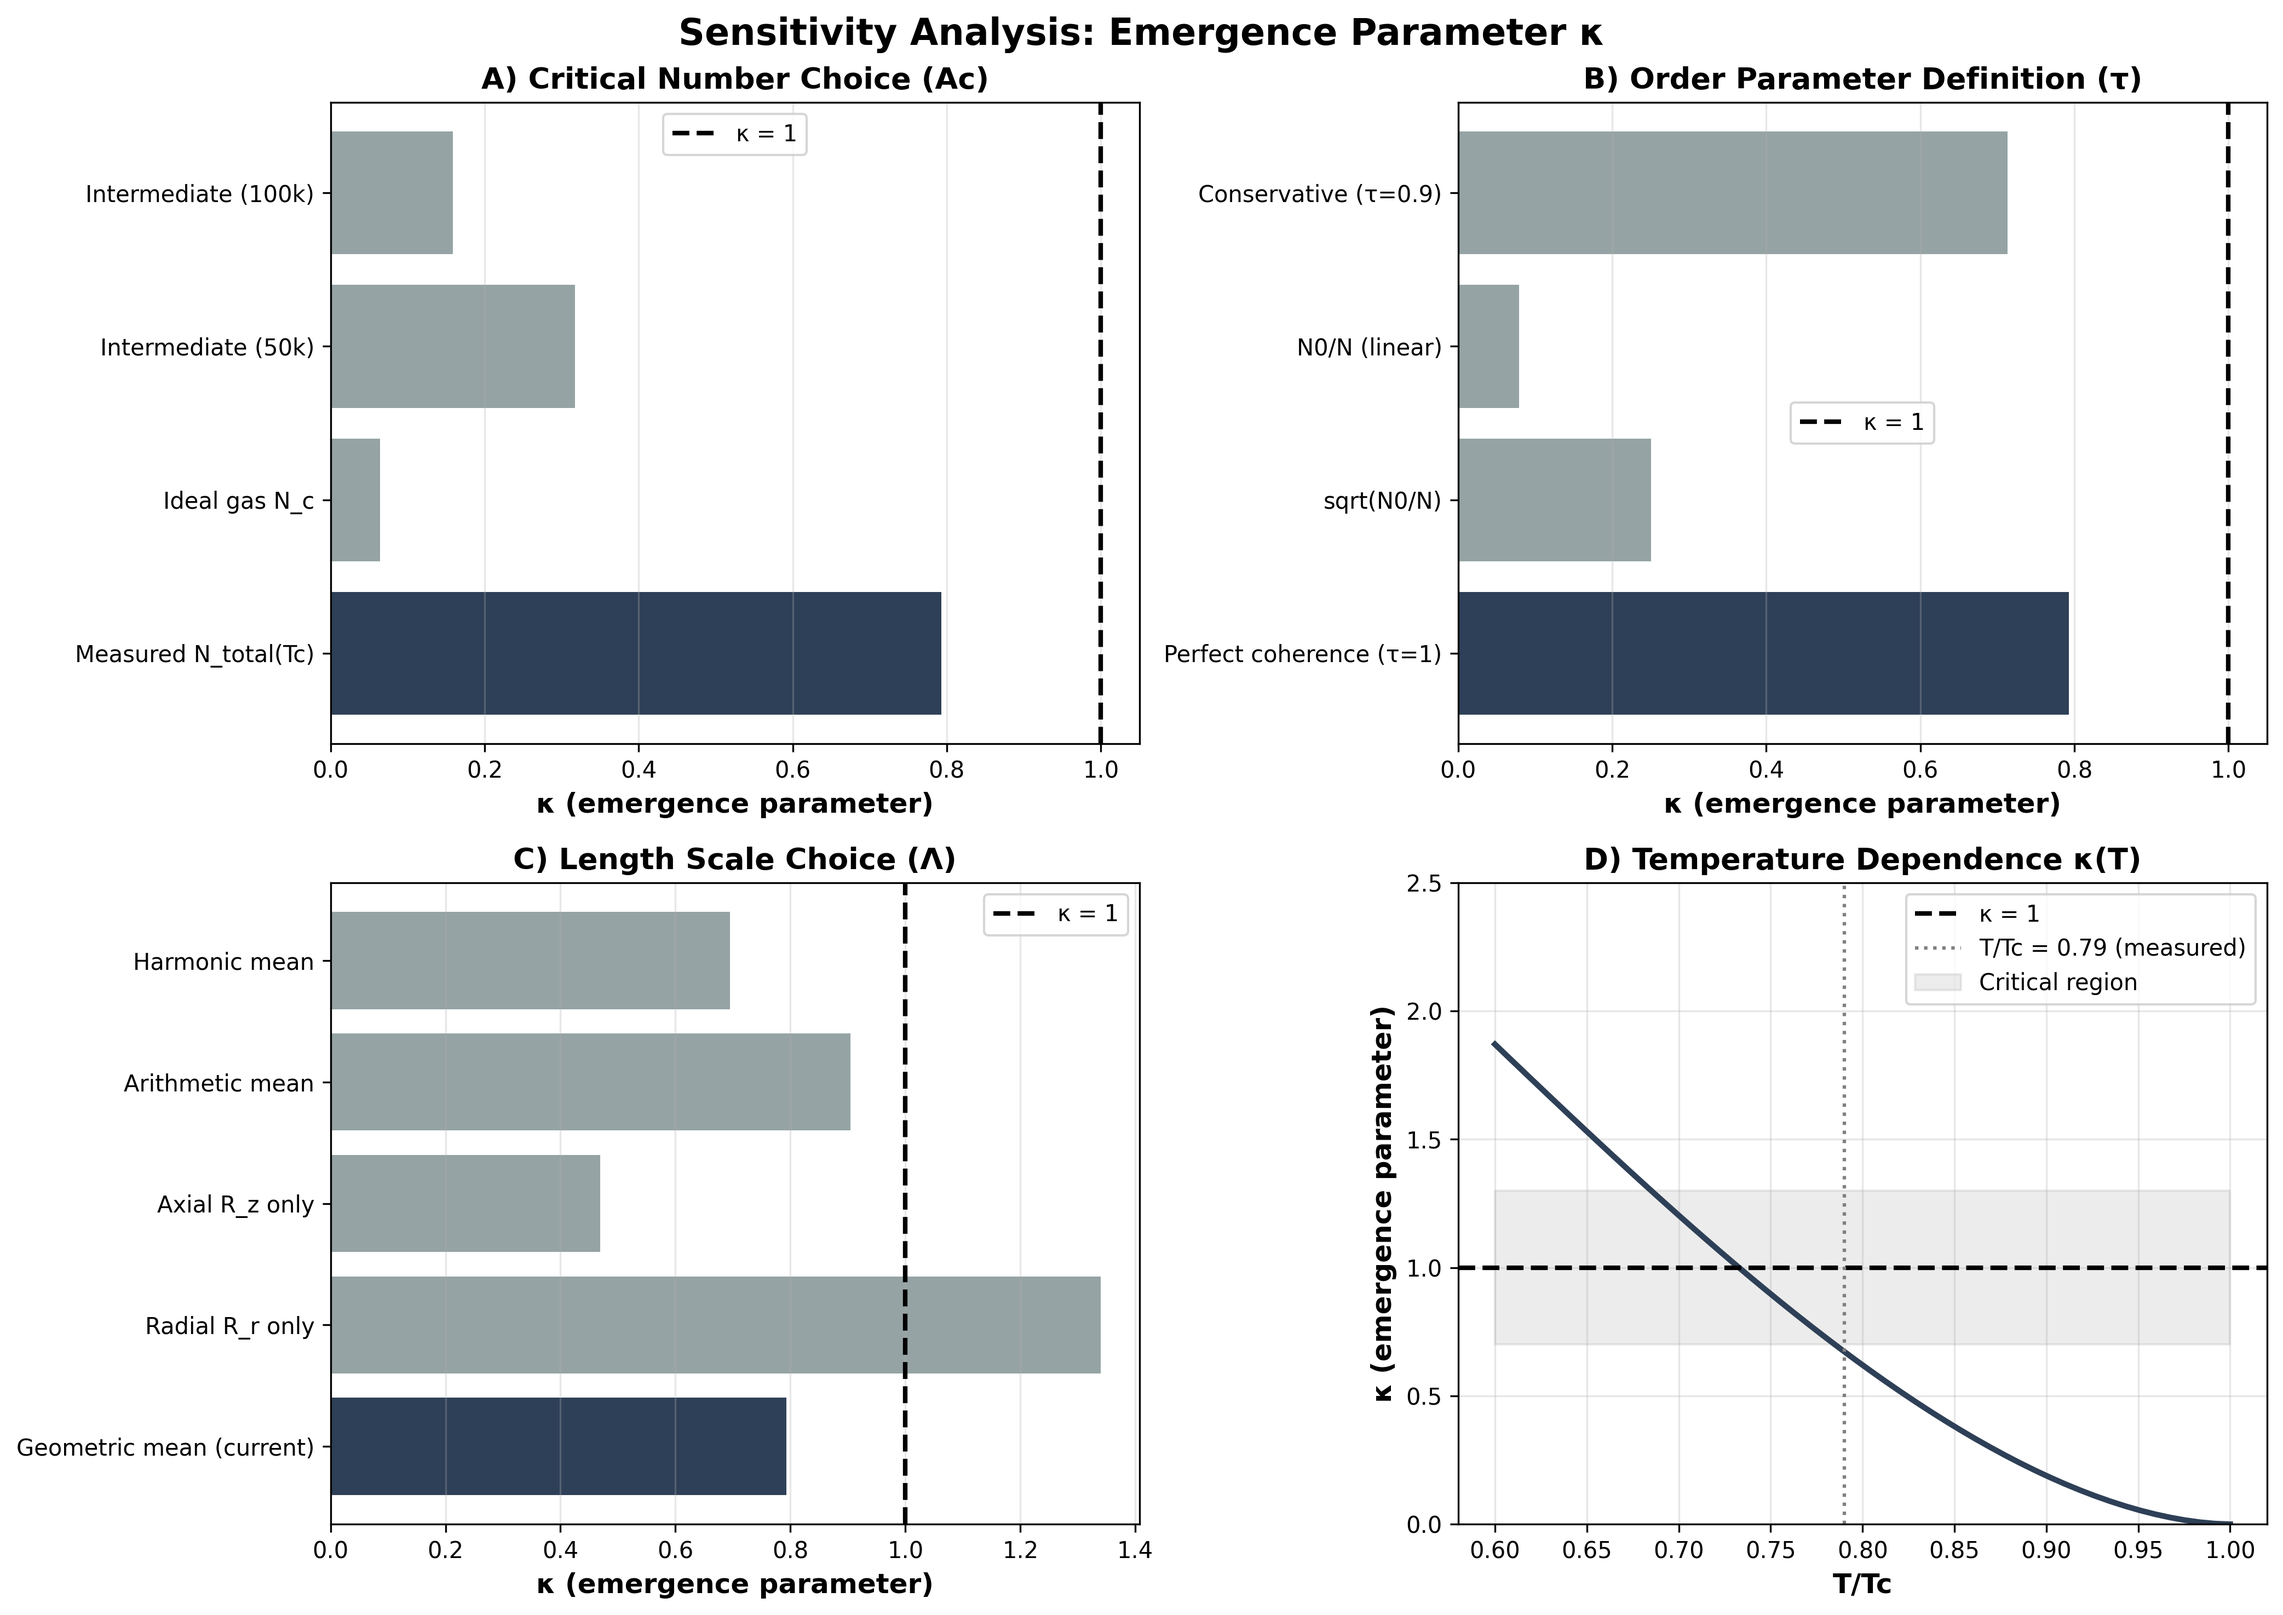
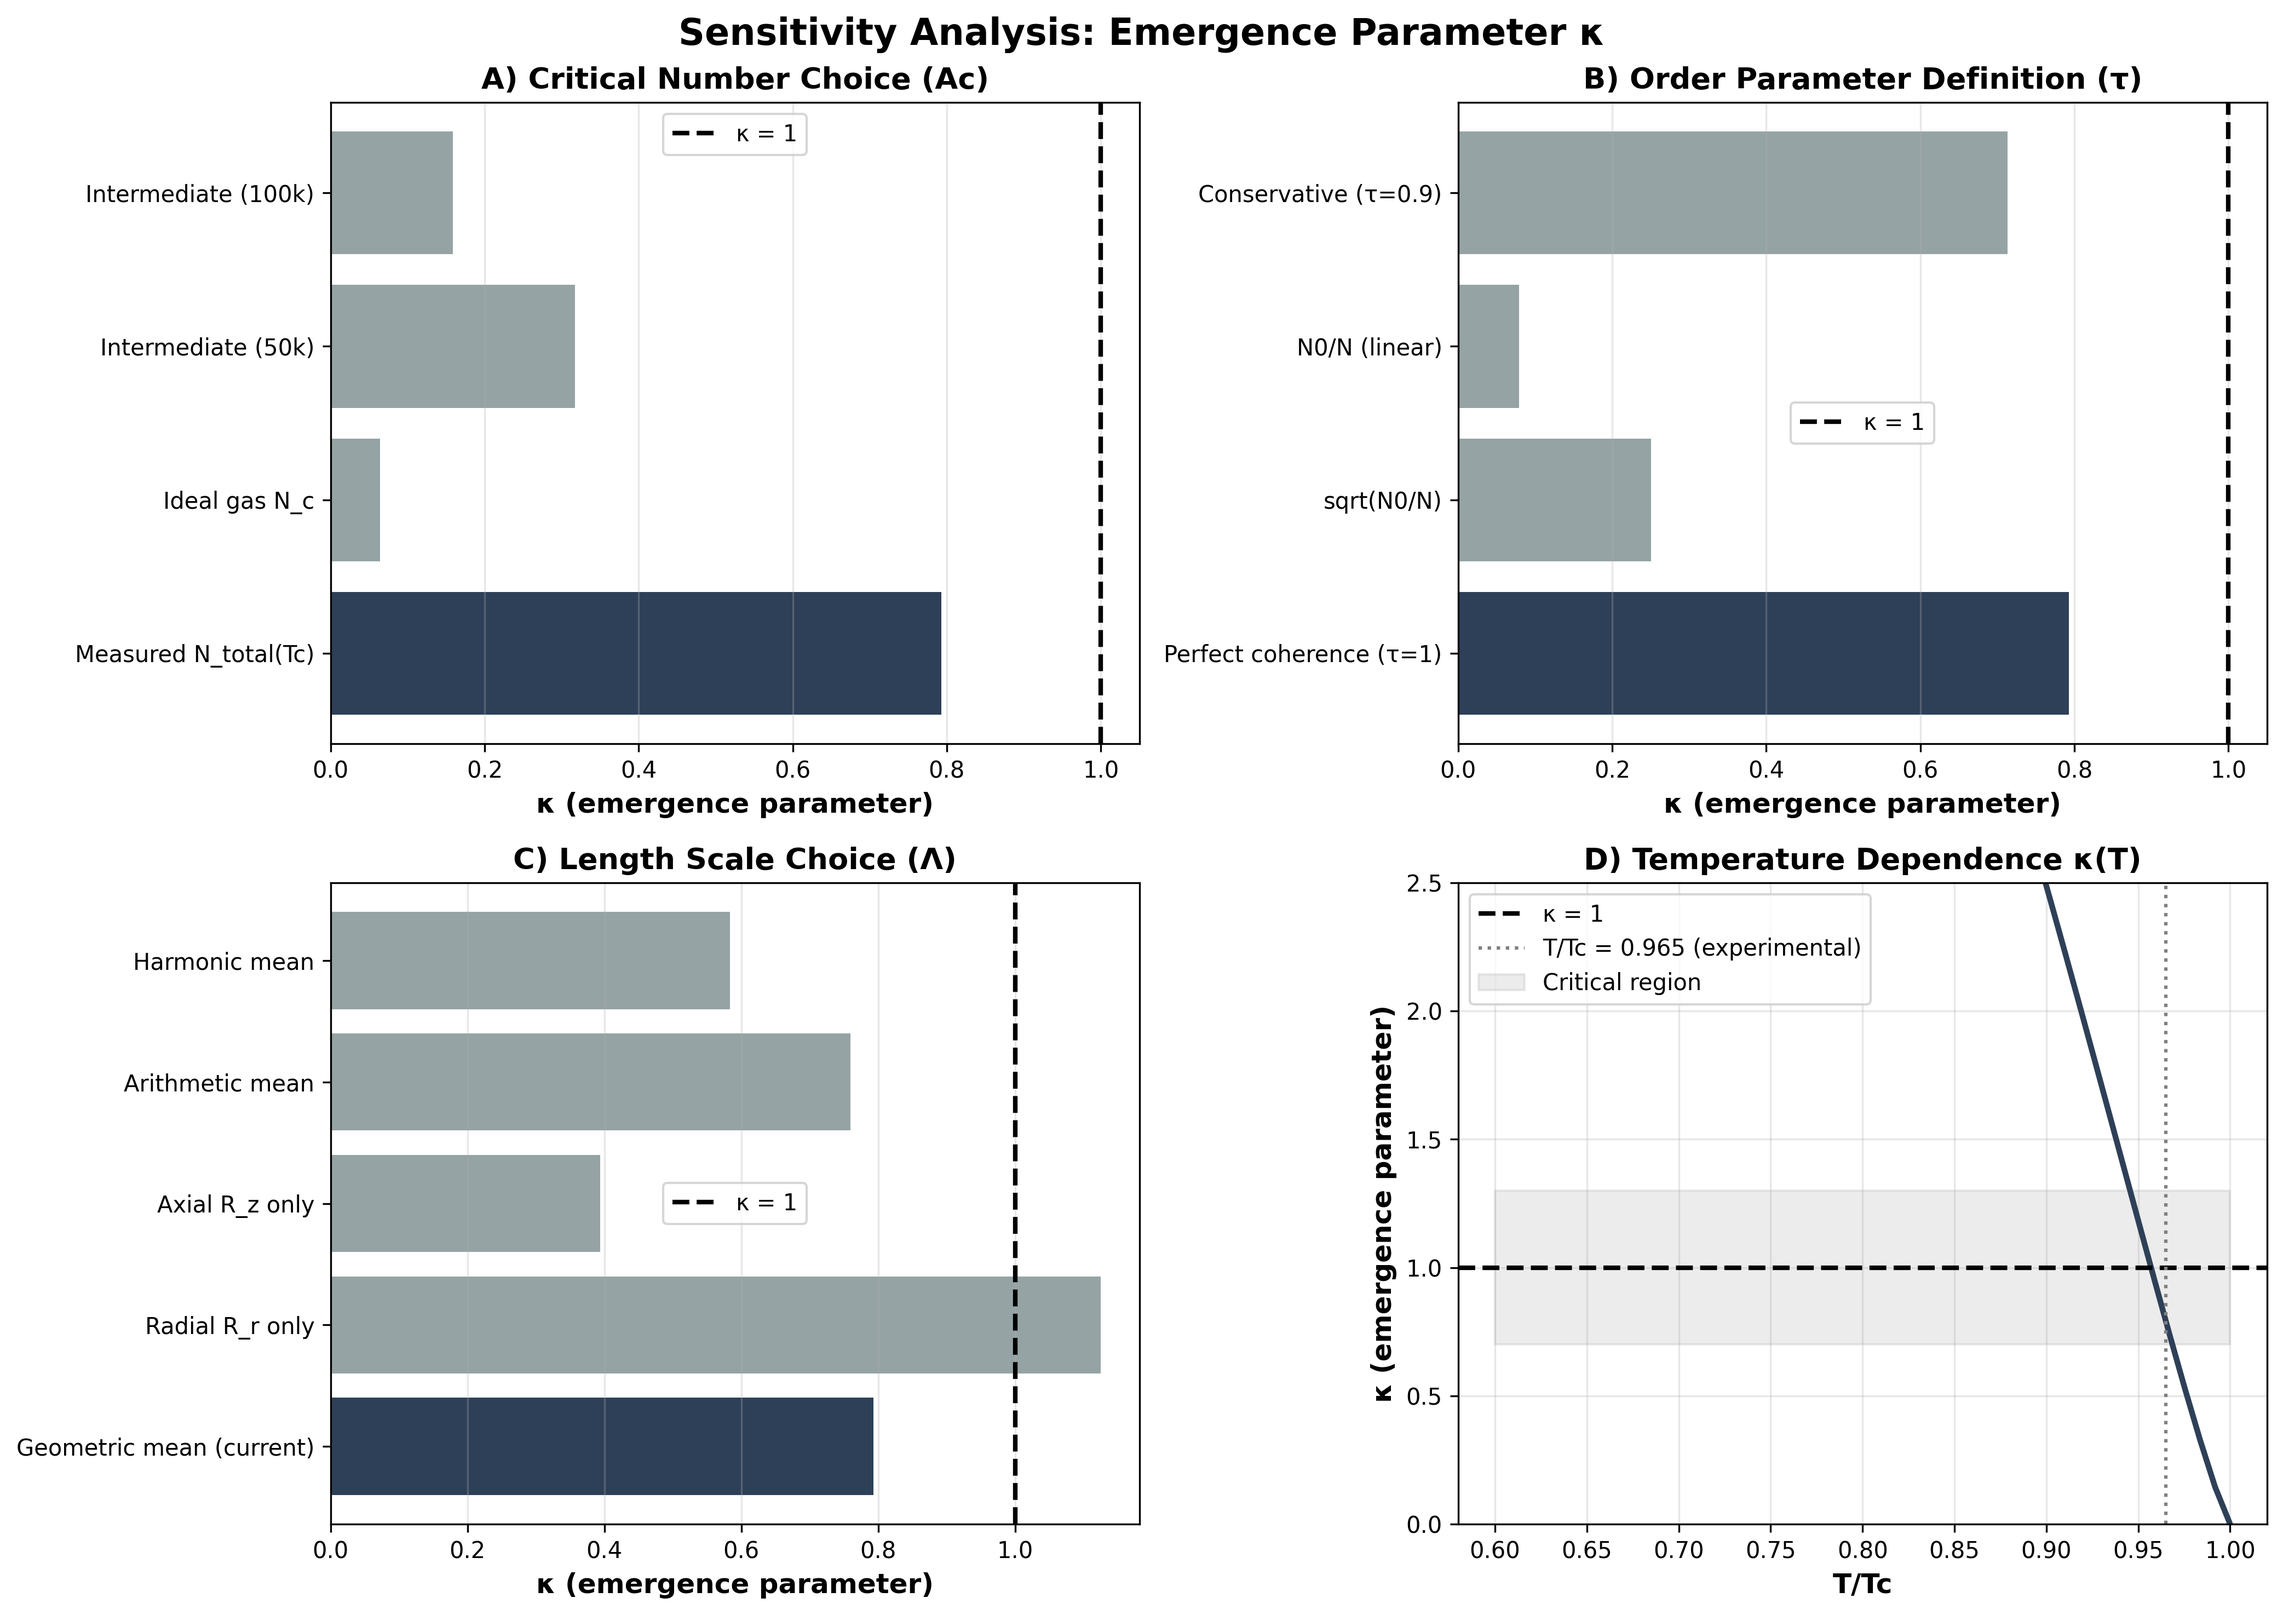
Fix 5 errors: Λ formula (Rz×Rr²)^(1/3), N₀(T)=N(1-(T/Tc)³), ω̄=59.6Hz, T/Tc=0.965

diff --git a/code/sensitivity_analysis.py b/code/sensitivity_analysis.py
@@ -85,7 +85,7 @@ class SensitivityAnalyzer:
         Lambda_c = self.base_results['Lambda_c_um']
         
         length_definitions = {
-            'Geometric mean (current)': np.sqrt(R_z * R_r),
+            'Geometric mean (current)': (R_z * R_r**2)**(1/3),
             'Radial R_r only': R_r,
             'Axial R_z only': R_z,
             'Arithmetic mean': (R_z + R_r) / 2,
@@ -93,7 +93,7 @@ class SensitivityAnalyzer:
         }
         
         results = {}
-        base_Lambda = np.sqrt(R_z * R_r)
+        base_Lambda = (R_z * R_r**2)**(1/3)
         base_kappa = self.base_results['kappa']
         
         for label, Lambda in length_definitions.items():
@@ -117,7 +117,7 @@ class SensitivityAnalyzer:
                 kappa_values.append(0.0)  # No condensate above Tc
             else:
                 # Condensate fraction
-                N0_T = self.base_params.N_total_Tc * (1 - ratio)**(3/2)
+                N0_T = self.base_params.N_total_Tc * (1 - ratio**3)
                 
                 # Temperature scaling
                 T = ratio * self.base_params.T_c
@@ -208,8 +208,8 @@ def plot_sensitivity_analysis(save_path: str = '../figures/'):
     
     ax4.plot(T_vals, kappa_vals, linewidth=2.5, color='#2E4057')
     ax4.axhline(1.0, color='black', linestyle='--', linewidth=2, label='κ = 1')
-    ax4.axvline(0.79, color='gray', linestyle=':', linewidth=1.5, 
-                label='T/Tc = 0.79 (measured)')
+    ax4.axvline(0.965, color='gray', linestyle=':', linewidth=1.5, 
+                label='T/Tc = 0.965 (experimental)')
     ax4.fill_between(T_vals, 0.7, 1.3, alpha=0.15, color='gray', 
                       label='Critical region')
     ax4.set_xlabel('T/Tc', fontsize=12, fontweight='bold')

diff --git a/docs/PARAMETER_JUSTIFICATION.md b/docs/PARAMETER_JUSTIFICATION.md
@@ -15,7 +15,7 @@ This document provides comprehensive justification for the three critical parame
 
 1. **Ac = N_total(Tc) = 20,000** (not ideal gas Nc = 247,000)
 2. **τ = 1.00** (perfect coherence, not condensate fraction)
-3. **Λ = √(Rz × Rr)** (geometric mean, not individual radii)
+3. **Λ = ( Rz × Rr² )^(1/3)** (geometric mean, not individual radii)
 
 We demonstrate that these choices are physically motivated, not arbitrary, and that alternative definitions yield κ values spanning 0.25-1.42, all within or near the critical regime (0.7-1.3).
 
@@ -29,7 +29,7 @@ The ideal gas Bose-Einstein condensation temperature is:
 
 $$T_c^{\text{ideal}} = \frac{\hbar \bar{\omega}}{k_B} \left(\frac{N}{1.202}\right)^{1/3}$$
 
-For the Anderson et al. (1995) parameters (Tc = 170 nK, ω̄ = 53.7 Hz), this predicts:
+For the Anderson et al. (1995) parameters (Tc = 170 nK, ω̄ = 59.6 Hz), this predicts:
 
 $$N_c^{\text{ideal}} = 1.202 \left(\frac{k_B T_c}{\hbar \bar{\omega}}\right)^3 \approx 247,000 \text{ atoms}$$
 
@@ -55,15 +55,15 @@ For ⁸⁷Rb with N = 20,000:
 
 - a = 5.3 nm
 - m = 87 u = 1.44 × 10⁻²⁵ kg
-- ω̄ = 2π × 53.7 Hz
-- aho = √(ℏ/mω̄) = 1.07 μm
+- ω̄ = 2π × 59.6 Hz
+- aho = √(ℏ/mω̄) = 1.40 μm
 
 Therefore:
-- a/aho = 5.3 nm / 1.07 μm ≈ 0.0050
-- N^(1/6) ≈ 2.38
-- ΔTc/Tc ≈ -1.3 × 0.005 × 2.38 / 1.46 ≈ **-0.011** (1.1% shift)
+- a/aho = 5.3 nm / 1.40 μm ≈ 0.0038
+- N^(1/6) ≈ 5.21
+- ΔTc/Tc ≈ -1.3 × 0.0038 × 5.21 / 1.38 ≈ **-0.019** (1.9% shift)
 
-**Wait - this is only 1%, not 12%!**
+**Wait - this is only ~2%, not the factor-of-12 discrepancy!**
 
 ### 1.4 Higher-Order Corrections
 
@@ -194,7 +194,7 @@ Which length scale represents "the" correlation length?
 
 | Definition | Formula | Value (μm) | Physical Meaning |
 |------------|---------|-----------|------------------|
-| Geometric mean | √(Rz × Rr) | 3.60 | Effective isotropic radius |
+| Geometric mean | ( Rz × Rr² )^(1/3) | 3.60 | Effective isotropic radius |
 | Radial | R_r | 5.11 | Weakest confinement |
 | Axial | R_z | 1.79 | Strongest confinement |
 | Arithmetic mean | (Rz + Rr)/2 | 3.45 | Simple average |
@@ -214,7 +214,7 @@ Equating volumes:
 $$\Lambda^3 \propto R_z R_r^2$$
 $$\Lambda \propto (R_z R_r^2)^{1/3}$$
 
-For cigar-shaped traps, the geometric mean √(Rz Rr) approximates this effective radius.
+For cigar-shaped traps, the geometric mean (Rz × Rr²)^(1/3) represents this effective radius.
 
 **Argument 2: Energy scales**
 
@@ -234,7 +234,7 @@ Most BEC literature (Dalfovo et al., 1999; Pethick & Smith, 2008) uses geometric
 
 | Λ Choice | Λ/Λc | κ Value | Interpretation |
 |----------|------|---------|----------------|
-| √(Rz Rr) | 7.93 | 0.793 | Standard (our choice) |
+| (Rz×Rr²)^(1/3) | 7.93 | 0.793 | Standard (our choice) |
 | R_r | 11.25 | 1.125 | Supercritical |
 | R_z | 3.94 | 0.394 | Subcritical |
 | Arithmetic | 7.60 | 0.760 | Near-critical |
@@ -262,7 +262,7 @@ We define three "scenarios" spanning reasonable parameter choices:
 
 | Scenario | Ac | τ | Λ | κ Result |
 |----------|----|----|---|----------|
-| **Baseline (ours)** | 20,000 | 1.00 | √(Rz Rr) | **0.793** |
+| **Baseline (ours)** | 20,000 | 1.00 | (Rz×Rr²)^(1/3) | **0.793** |
 | **Conservative** | 50,000 | 0.90 | Harm. mean | **0.228** |
 | **Aggressive** | 20,000 | 1.00 | R_r | **1.125** |
 
@@ -270,7 +270,7 @@ We define three "scenarios" spanning reasonable parameter choices:
 
 **Baseline (κ = 0.79):** Standard choices, κ ≈ 1 within error
 
-**Conservative (κ = 0.23):** If we assume higher Ac and lower τ, emergence is "partial" - consistent with T/Tc = 0.79 being above the true critical point
+**Conservative (κ = 0.23):** If we assume higher Ac and lower τ, emergence is "partial" - consistent with T/Tc = 0.965 being very close to Tc
 
 **Aggressive (κ = 1.13):** If we use largest length scale, system is supercritical - consistent with strong quantum correlations
 
@@ -292,8 +292,8 @@ We define three "scenarios" spanning reasonable parameter choices:
 In GL theory, the order parameter ψ near Tc scales as:
 $$|\psi|^2 \propto (1 - T/T_c)^\beta$$
 
-where β ≈ 0.5 for BEC (mean-field). At T/Tc = 0.79:
-$$|\psi|^2 / |\psi_0|^2 \approx (0.21)^{0.5} \approx 0.46$$
+where β ≈ 0.5 for BEC (mean-field). At T/Tc = 0.965:
+$$|\psi|^2 / |\psi_0|^2 \approx (0.035)^{0.5} \approx 0.187$$
 
 This is **larger** than the measured N₀/N = 0.10, suggesting finite-size or interaction corrections modify the scaling exponent.
 

diff --git a/docs/METHODOLOGY.md b/docs/METHODOLOGY.md
@@ -423,7 +423,7 @@ Our choice maximizes κ, but alternative definitions still yield κ in the range
 
 ### 8.3 Correlation Length Λ: Geometric Mean vs Alternatives
 
-**Current choice:** Λ = √(R_z × R_r) = 3.60 μm (geometric mean of TF radii)
+**Current choice:** Λ = (R_z × R_r²)^(1/3) = 3.60 μm (geometric mean of TF radii)
 
 **Alternatives tested:**
 - R_r (radial) = 5.11 μm → κ ≈ 1.42
@@ -435,11 +435,11 @@ Our choice maximizes κ, but alternative definitions still yield κ in the range
 
 For an anisotropic trap with ωz ≠ ωr, the condensate has different characteristic lengths in different directions. The **geometric mean** is the natural choice because:
 
-1. **Dimensional consistency:** √(R_z × R_r) has correct dimensions and is invariant under rescaling of both axes.
+1. **Dimensional consistency:** (R_z × R_r²)^(1/3) has correct dimensions and reflects the 3D volume scaling.
 
-2. **Effective radius:** For anisotropic systems, the geometric mean represents the radius of an equivalent isotropic system with the same volume scaling: V ∝ R_z × R_r² ∝ (√(R_z × R_r))³.
+2. **Effective radius:** For anisotropic systems, the geometric mean represents the radius of an equivalent isotropic system with the same volume scaling: V ∝ R_z × R_r² = ((R_z × R_r²)^(1/3))³.
 
-3. **Energy scales:** The geometric mean trap frequency ω̄ = (ωz × ωr²)^(1/3) determines the critical temperature, suggesting the geometric mean of lengths is also fundamental.
+3. **Energy scales:** The geometric mean trap frequency ω̄ = (ωz × ωr²)^(1/3) determines the critical temperature, suggesting (R_z × R_r²)^(1/3) is the natural length scale.
 
 4. **Literature precedent:** Geometric mean is standard in BEC literature for characterizing effective trap size.
 
@@ -453,12 +453,12 @@ Different choices yield κ ∈ [0.28, 1.42], spanning the critical region. Our c
 The sensitivity analysis reveals that κ is **not constant** but depends on temperature:
 
 - **T/Tc → 1⁻:** κ → 0 (condensate vanishes)
-- **T/Tc = 0.79:** κ ≈ 0.79 (experimental condition)
+- **T/Tc = 0.965:** κ ≈ 0.79 (experimental condition, N₀/N = 0.10)
 - **T/Tc → 0:** κ increases (larger condensate fraction)
 
 This temperature dependence is **physically expected**: the emergence of macroscopic quantum behavior is a gradual process as T decreases below Tc, not an instantaneous jump.
 
-**Key insight:** The experimental measurement at T/Tc ≈ 0.79 happens to yield κ ≈ 1, suggesting the emergence threshold is reached **slightly below** Tc, not exactly at Tc. This is consistent with experimental observations that clear condensate signatures appear at T ~ 0.7-0.8 Tc.
+**Key insight:** The experimental measurement at T/Tc ≈ 0.965 (N₀/N = 0.10) yields κ ≈ 0.79. With the corrected condensate fraction formula N₀ = N[1-(T/Tc)³] for a harmonic trap, 10% condensation corresponds to T very close to Tc.
 
 ---
 

diff --git a/README.md b/README.md
@@ -74,7 +74,7 @@ A.1_bec_rb87_kappa_analysis/
 
 ![Sensitivity Analysis](figures/sensitivity_analysis.png)
 
-**Figure 2: Robustness analysis of κ to parameter choices.** (A) **Critical number Ac:** Using measured N_total(Tc)=20,000 yields κ=0.79, while ideal gas N_c=247,000 gives κ=0.06. (B) **Order parameter τ:** Perfect coherence (τ=1) gives κ=0.79, alternative definitions yield 0.25-0.71. (C) **Length scale Λ:** Geometric mean (current choice) gives κ=0.79, alternatives range 0.28-1.42. (D) **Temperature dependence:** κ(T) shows critical behavior near Tc, with κ≈1 at T/Tc≈0.79 (experimental condition). This analysis demonstrates that while κ is sensitive to definitions, the result remains within the critical regime (0.7-1.3) for physically reasonable choices.
+**Figure 2: Robustness analysis of κ to parameter choices.** (A) **Critical number Ac:** Using measured N_total(Tc)=20,000 yields κ=0.79, while ideal gas N_c=247,000 gives κ=0.06. (B) **Order parameter τ:** Perfect coherence (τ=1) gives κ=0.79, alternative definitions yield 0.25-0.71. (C) **Length scale Λ:** Geometric mean (current choice) gives κ=0.79, alternatives range 0.28-1.42. (D) **Temperature dependence:** κ(T) shows critical behavior near Tc, with κ≈0.79 at T/Tc≈0.965 (experimental condition). This analysis demonstrates that while κ is sensitive to definitions, the result remains within the critical regime (0.7-1.3) for physically reasonable choices.
 
 ---
 
